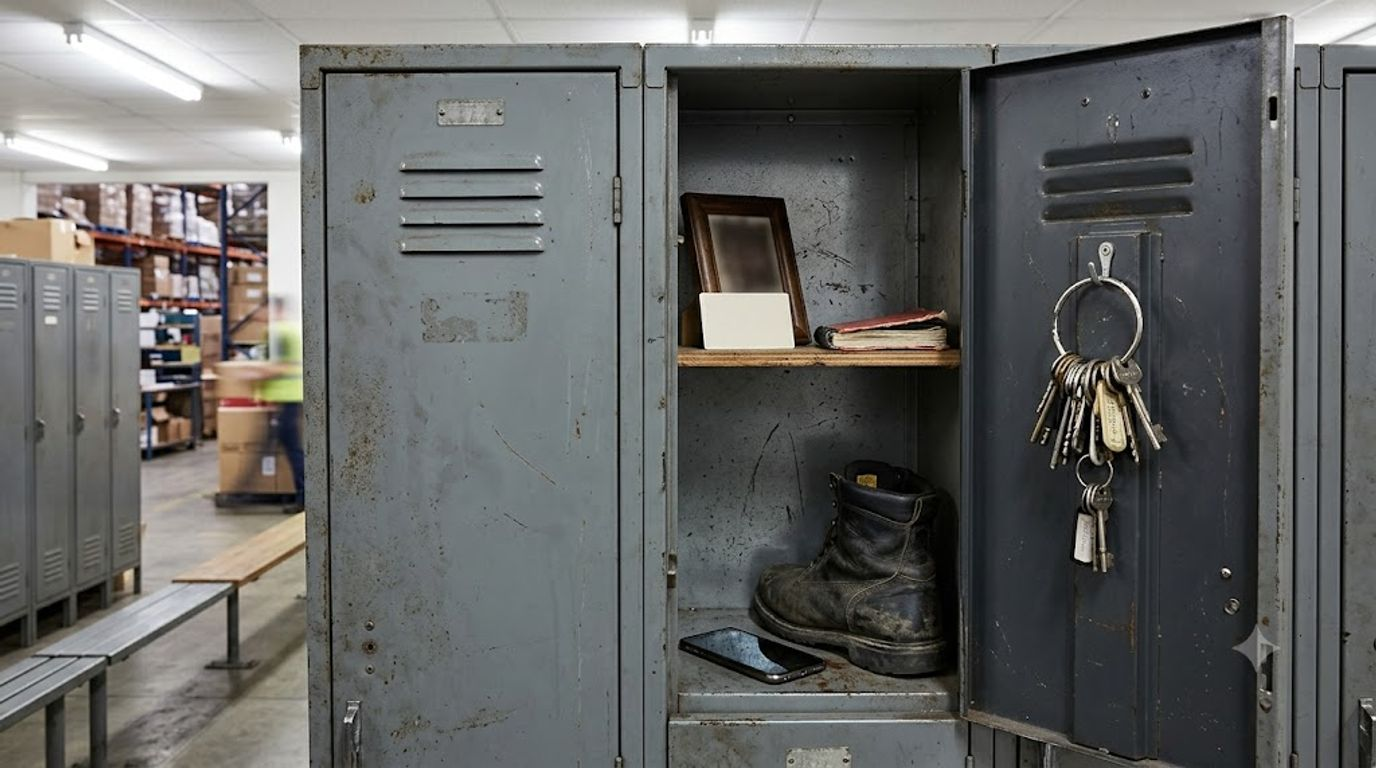
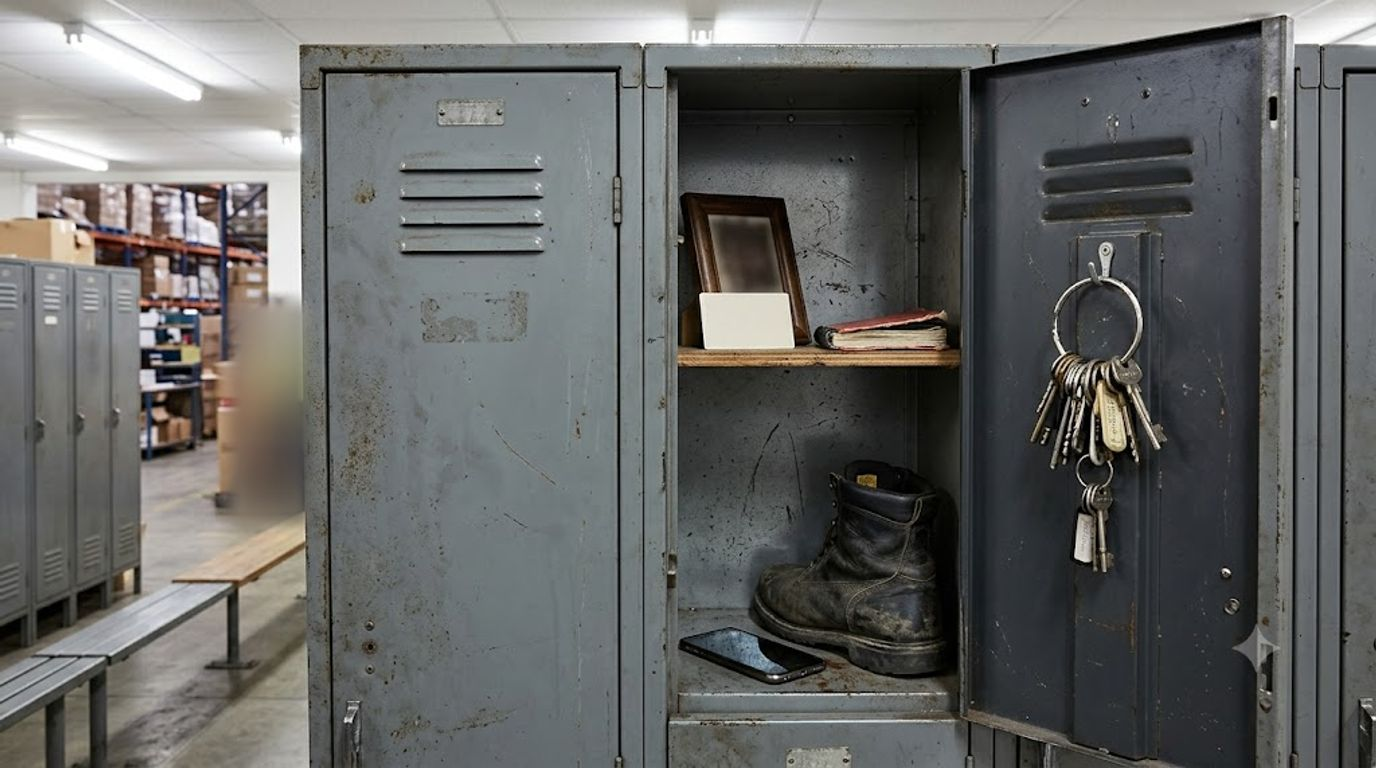
feat(야간조 솔로): 배경 나머지 열한 장 — 스물한 장이 다 찼다
- 사물함: 윤도경(번호표 흐림)·흐엉(뒤편 작업자 흐림으로 교체)
- 공용 공간: 휴게실·충전소(지게차 모델 표기 흐림)·동쪽 구역·2층 사무실(프린터 상표·창밖 사람 흐림)
- 관제실 열람대: 모니터 여섯이 두 줄, 오른쪽 아래(C-3)만 검다 — 카메라별 카드를 그 모니터 자리에 모았다
- 감식 의뢰실(현미경·노트북 상표 흐림) — 작업대 앞 봉투 아홉에 감식 아홉
- 브리핑·엔딩·시작 화면(건물 간판 흐림)
- 모든 방의 단서 자리를 사진 속 물건 위치에 맞췄다

Changed region(s): [[0.1562, 0.375, 0.25, 0.6875]]

diff --git a/src/yaganjo/solo/lib/game.js b/src/yaganjo/solo/lib/game.js
@@ -146,18 +146,63 @@ export const ROOM_HOTSPOTS = {
     'HPUZ-03': { x: 12, y: 80 },  // X7 랩 롤
     'OZRC-07': { x: 23.5, y: 20 },  // X8 랙 위 랩 덩어리
   },
-  // 관제실 열람대 — 카드 14장인데 자동 배치 앵커가 9개라 10~14번째가 앞과 겹쳤다.
-  //   모니터 여섯 칸(art.jsx CctvRoom 의 2줄×3칸, U3 카드 라벨 순서)에 그 카메라의 카드를 모은다.
-  //   좌표는 그 SVG 기준이다 — Gemini 배경을 깔면 모니터 자리에 맞춰 다시 잡는다.
+  'ROOM-E': {
+    'RGXM-52': { x: 49.5, y: 39 },  // E4 누런 봉투(탈락 통지)
+    'QHOU-15': { x: 62.5, y: 36, s: 0.85 },  // E1 검은 상자(커플링)·안내문
+    'NQGW-82': { x: 66, y: 46.5, s: 0.85 },  // E2 명함
+    'SXMG-82': { x: 47, y: 69 },  // E3 집품 단말
+    'FKRI-82': { x: 56, y: 79 },  // E5 접힌 메모
+    'TQMO-65': { x: 64.5, y: 78.5 },  // E6 휴대폰
+  },
+  // 공용 공간
+  'ROOM-W': {
+    'CTBT-25': { x: 56.5, y: 59 },  // W1 탁자 위 텀블러
+    'EKLZ-98': { x: 47.5, y: 50 },  // W2 벽에 기댄 끝자리 의자
+    'HOJI-48': { x: 31, y: 60 },  // W3 휴게실 탁자
+    'CRZR-18': { x: 93, y: 47 },  // W4 열린 문 너머 사물함 열
+    'NQGX-52': { x: 4.5, y: 50 },  // W6 구석 철제 캐비닛
+    'OVGS-58': { x: 86, y: 30, s: 0.85 },  // W5 흡연장(문간 게시판 옆으로 나가는 길)
+  },
+  'ROOM-N': {
+    'QJUT-13': { x: 37, y: 52 },  // N1 지게차
+    'BKZO-68': { x: 57.5, y: 42 },  // N3 충전기와 커넥터
+    'UTVE-09': { x: 71.5, y: 50 },  // N2 거치대의 무전기
+    'TEXV-97': { x: 84, y: 55 },  // N4 열린 문 안 배터리실
+    'KDBK-22': { x: 92.5, y: 48 },  // N5 배터리실 문
+  },
+  'ROOM-J': {
+    'LZOB-18': { x: 14, y: 44 },  // J1 갈림 랙 기둥
+    'QWRS-35': { x: 20, y: 83 },  // J2 기둥 밑 빈 상자
+    'QRDK-68': { x: 51, y: 52 },  // J3 안쪽 작업대
+    'UDBD-88': { x: 79, y: 61 },  // J4 폐기 파렛트
+    'TALG-77': { x: 93, y: 52 },  // J5 비상구 뒷문
+  },
+  'ROOM-U': {
+    'ATQK-74': { x: 46, y: 30 },  // U1 선반의 순찰 일지 묶음
+    'OPGY-02': { x: 33.5, y: 41 },  // U2 벽의 열쇠함
+    'NWVL-86': { x: 48, y: 64 },  // U6 캐비닛 속 초안
+    'OWBV-26': { x: 65.5, y: 52 },  // U5 열린 문과 계단
+    'ASWY-11': { x: 90, y: 40 },  // U3 유리창 너머 관제실
+    'ZVLJ-37': { x: 30, y: 67 },  // 거치대의 조장 태블릿
+    'KVUN-12': { x: 84, y: 84 },  // U4 오른쪽 책상 위 명부
+  },
+  // 관제실 열람대 — 모니터 여섯(위: G-1 · M-1 · M-2 / 아래: L-1 · W-1 · C-3, C-3 만 검다)에 그 카메라의 카드를 모은다.
+  //   scenes/ROOM-V.jpg 의 모니터 자리다(art.jsx CCTV_WALL 순서와 같다).
   'ROOM-V': {
-    'DRZS-30': { x: 21, y: 22, s: 0.85 }, 'LYZR-15': { x: 29, y: 22, s: 0.85 },           // G-1 정문
-    'VABS-05': { x: 50, y: 22, s: 0.85 },                                                 // M-1 주통로 서
-    'JPAD-03': { x: 67, y: 17, s: 0.8 }, 'JSFS-29': { x: 75, y: 17, s: 0.8 }, 'MPXG-54': { x: 83, y: 17, s: 0.8 },
-    'QNWA-14': { x: 71, y: 27, s: 0.8 }, 'EMSY-33': { x: 79, y: 27, s: 0.8 },           // M-2 자동문
-    'AHSG-34': { x: 25, y: 54, s: 0.85 },                                                 // L-1 탈의실 입구
-    'ZDHT-35': { x: 50, y: 54, s: 0.85 },                                                 // W-1 출고 리프트
-    'VOSB-03': { x: 69, y: 49, s: 0.8 }, 'ZFDP-41': { x: 81, y: 49, s: 0.8 },
-    'PAOX-30': { x: 69, y: 59, s: 0.8 }, 'KADA-11': { x: 81, y: 59, s: 0.8 },           // C-3 갈림
+    'DRZS-30': { x: 37, y: 26, s: 0.6 }, 'LYZR-15': { x: 41.5, y: 26, s: 0.6 },           // G-1 정문
+    'VABS-05': { x: 50.3, y: 26, s: 0.65 },                                                // M-1 주통로 서
+    'JPAD-03': { x: 58, y: 22.5, s: 0.55 }, 'JSFS-29': { x: 61.5, y: 22.5, s: 0.55 }, 'MPXG-54': { x: 65, y: 22.5, s: 0.55 },
+    'QNWA-14': { x: 59.5, y: 29.5, s: 0.55 }, 'EMSY-33': { x: 63.5, y: 29.5, s: 0.55 },  // M-2 자동문
+    'AHSG-34': { x: 39.3, y: 43.5, s: 0.65 },                                              // L-1 탈의실 입구
+    'ZDHT-35': { x: 50.3, y: 43.5, s: 0.65 },                                              // W-1 출고 리프트
+    'VOSB-03': { x: 59.5, y: 40, s: 0.55 }, 'ZFDP-41': { x: 63.5, y: 40, s: 0.55 },
+    'PAOX-30': { x: 59.5, y: 47, s: 0.55 }, 'KADA-11': { x: 63.5, y: 47, s: 0.55 },      // C-3 갈림(검은 화면)
+  },
+  // 감식 의뢰실 — 작업대 앞 비닐 봉투 아홉에 감식 아홉
+  'LOC-LAB': {
+    'IJEO-08': { x: 10, y: 75, s: 0.8 }, 'FBWD-37': { x: 19.5, y: 75, s: 0.8 }, 'MJKI-42': { x: 29, y: 75, s: 0.8 },
+    'VHVX-45': { x: 38.5, y: 75, s: 0.8 }, 'GAPY-25': { x: 48, y: 75, s: 0.8 }, 'ZUKG-03': { x: 57.5, y: 75, s: 0.8 },
+    'PKNM-32': { x: 67, y: 75, s: 0.8 }, 'JRKW-82': { x: 76.5, y: 75, s: 0.8 }, 'PNOQ-92': { x: 86, y: 75, s: 0.8 },
   },
 };
 // 좌표 없는 단서(주로 2차에 열리는 휴대폰)는 스캐터 앵커로 떨어지는데, 그 자리가 손으로
